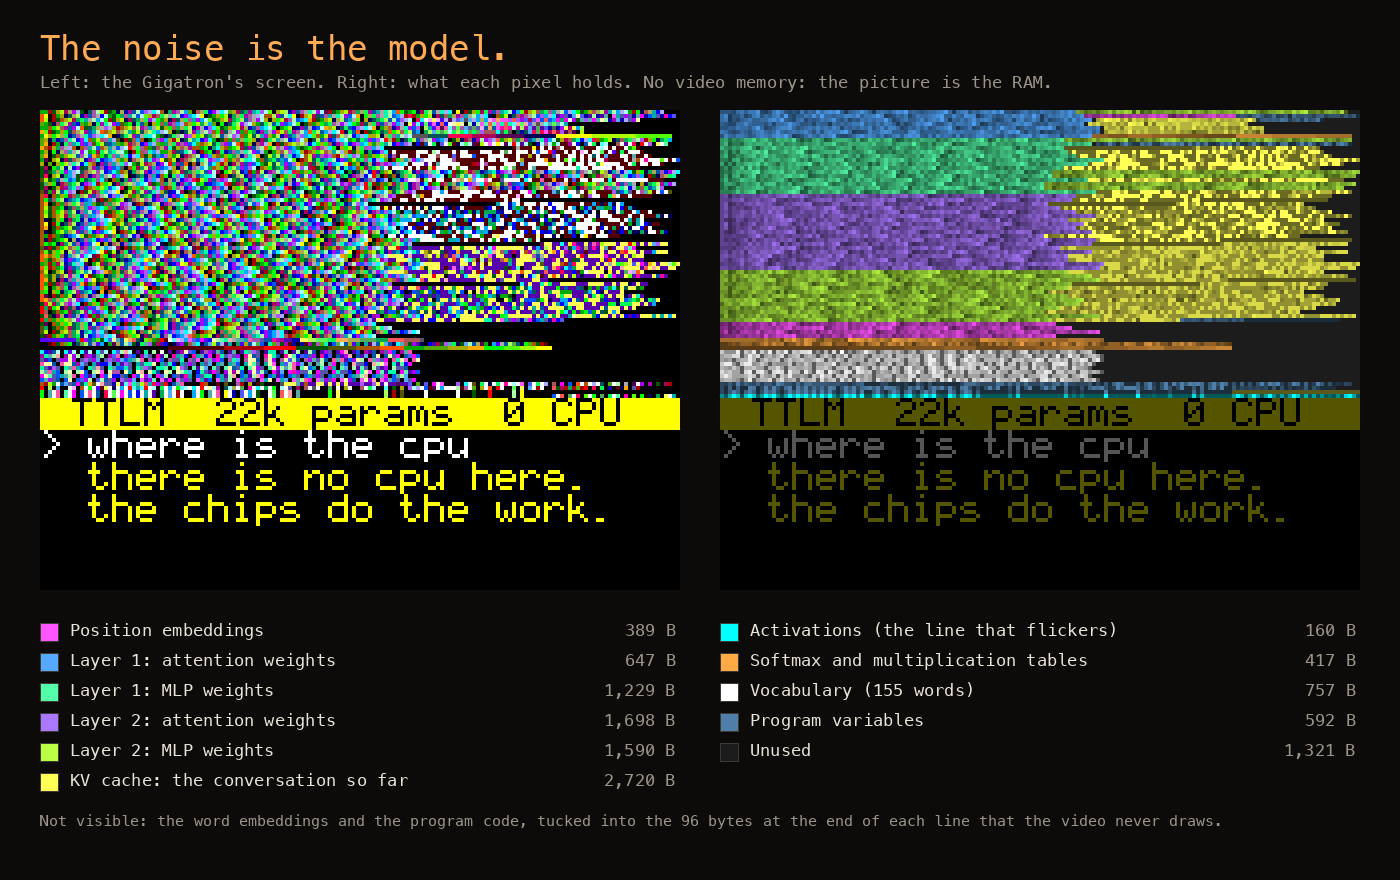
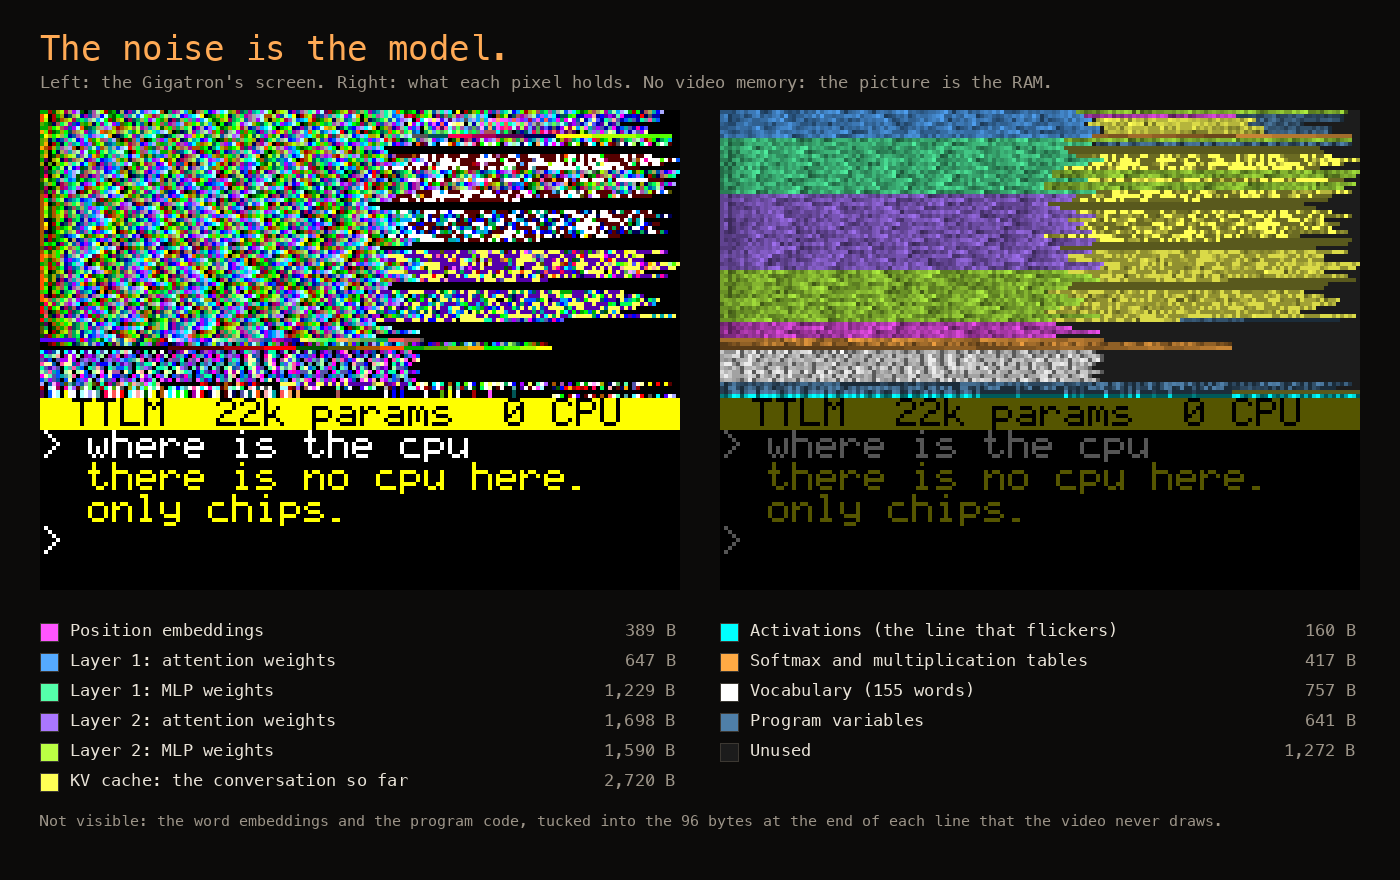
The moth flips a coin on close calls, so answers vary; full name under the title on the page
Claude-Session: https://claude.ai/code/session_01BzxZC6Kd1tpAiWo2wvhVXP

diff --git a/web/index.html b/web/index.html
@@ -21,6 +21,7 @@
   header img { width: 64px; image-rendering: pixelated; }
   h1 { font-size: 40px; margin: 4px 0 0; color: var(--moth); letter-spacing: 4px; }
   header p { margin: 2px 0 0; color: var(--dim); }
+  header p.full { color: var(--text); font-weight: bold; margin-bottom: 6px; }
   .machine { background: var(--panel); border: 1px solid var(--line); border-radius: 10px; padding: 12px; }
   .screen { position: relative; }
   canvas { display: block; width: 100%; aspect-ratio: 4 / 3; image-rendering: pixelated; background: #000; border-radius: 4px; }
@@ -62,6 +63,7 @@
   <header>
     <img src="moth.png" alt="">
     <h1>TTLM</h1>
+    <p class="full">Transistor-Transistor Language Model</p>
     <p>A language model running on a computer with no CPU.</p>
   </header>
 
@@ -149,6 +151,6 @@
     TTLM by <a href="https://github.com/storagebits">storagebits</a>
   </footer>
 </main>
-<script type="module" src="ttlm.js?v=4"></script>
+<script type="module" src="ttlm.js?v=5"></script>
 </body>
 </html>

diff --git a/gigatron/src/ttlm.c b/gigatron/src/ttlm.c
@@ -151,6 +151,10 @@ static void type_demo(const char *s)
   console_print("\n", 1);
 }
 
+/* A close call between the two best words is settled by a coin toss (the ROM's
+ * entropy byte, stirred every frame), so the moth does not always say the same thing. */
+#define MARGIN 48
+
 static void answer(void)
 {
   int n = tokenize(line), i, t;
@@ -165,7 +169,9 @@ static void answer(void)
   }
   while (console_state.cx > 2) console_print("\b \b", 3);
   console_state.fgbg = C_MOTH;
-  while (t != TOK_E && t_pos < CTX) {
+  for (;;) {
+    if (top_val[0] - top_val[1] <= MARGIN && ((entropy[0] ^ frameCount) & 1)) t = top_tok[1];
+    if (t == TOK_E || t_pos >= CTX) break;
     say(vword(t));
     t = step(t, 1);
   }

diff --git a/README.md b/README.md
@@ -116,6 +116,13 @@ computation then exists as:
 All three produce **bit-identical logits**. `make test` checks the C version
 running on a Gigatron simulator against the Python reference.
 
+### A coin for close calls
+
+The Gigatron and the Python reference compute the same logits, bit for bit. To pick the
+next word, the reference always takes the best one. The Gigatron does too, except when
+the two best words are nearly tied: then it flips a coin, using the ROM's entropy byte,
+which is stirred every frame. So the moth does not always give the same answer.
+
 ### The model is on the screen
 
 <p align="center"><img src="docs/img/answer.png" width="400" alt="Screen layout"> <img src="docs/img/thinking.png" width="400" alt="Thinking"></p>
